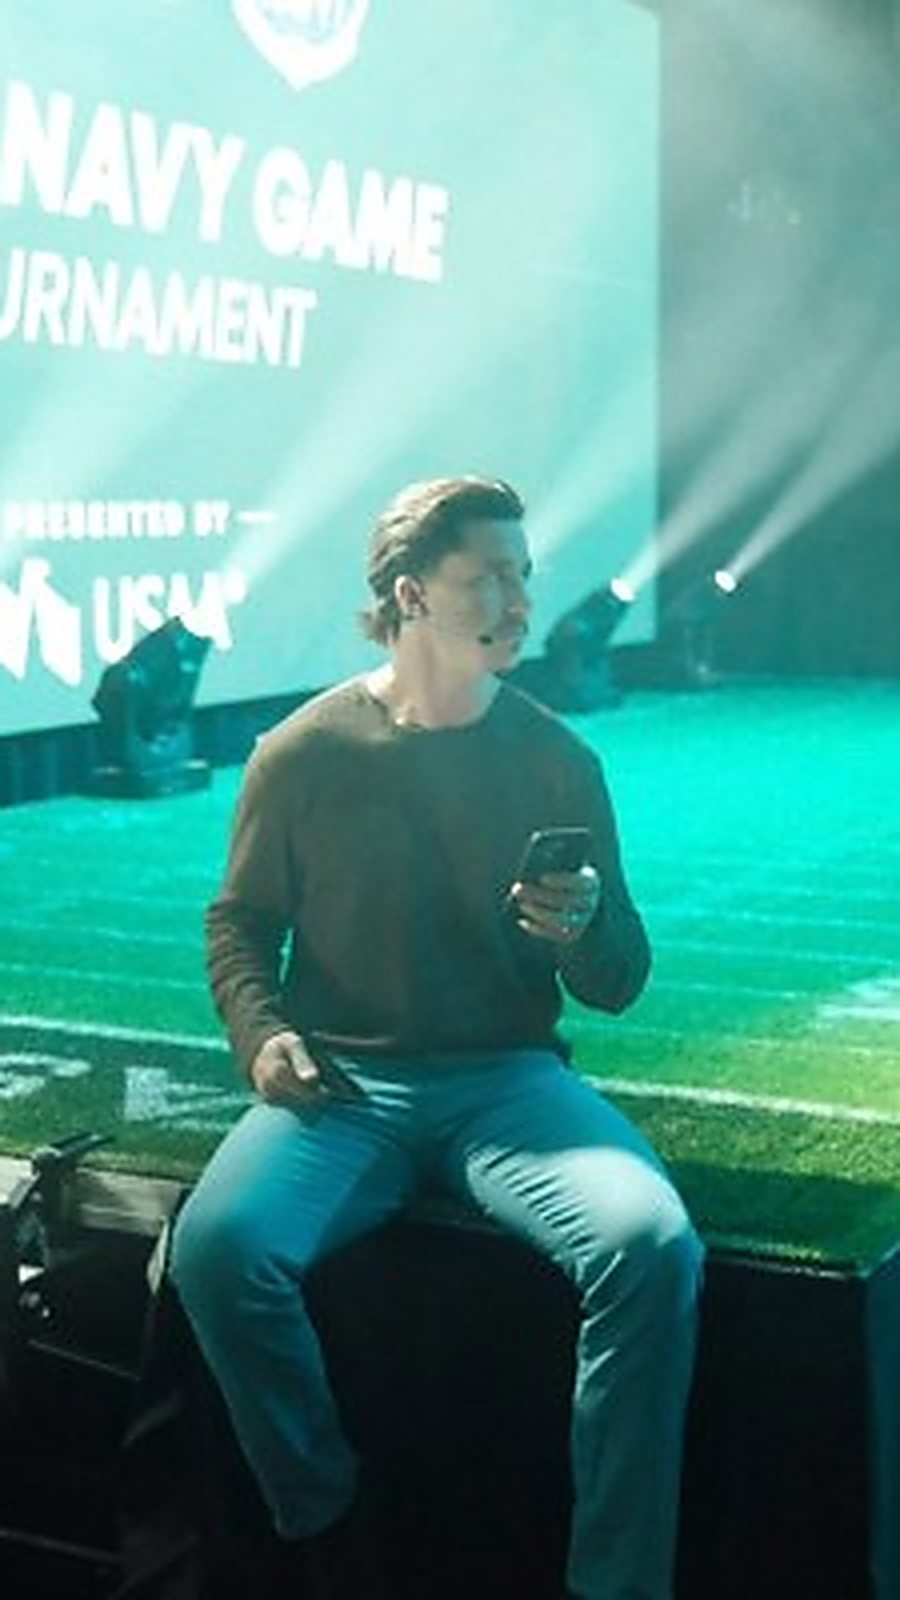
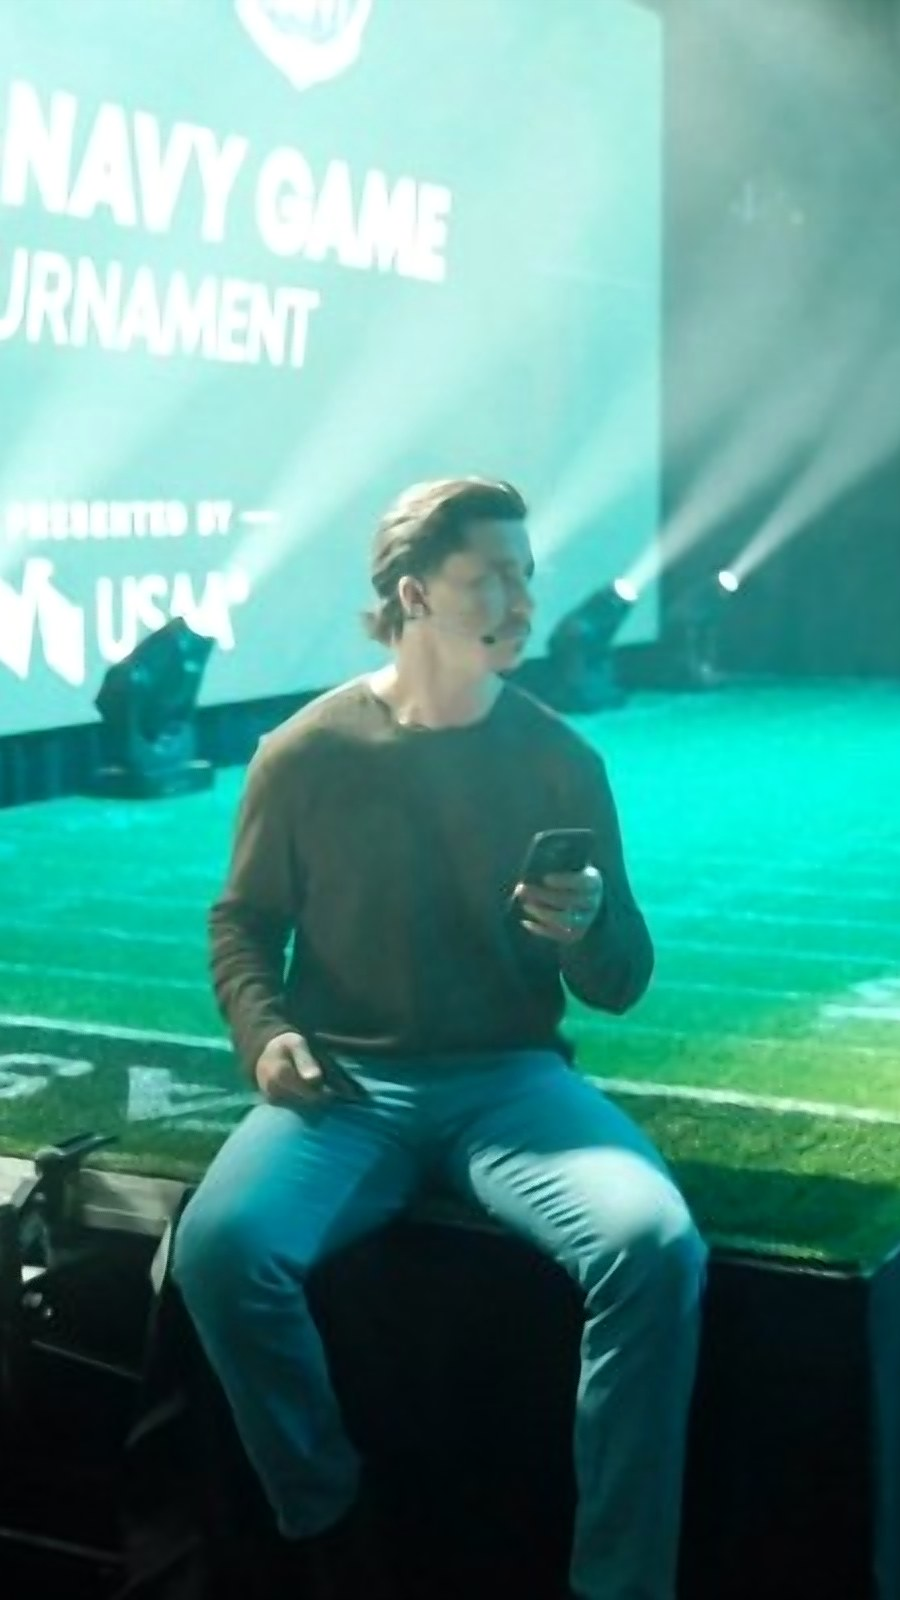
More Nutrition script and style refinements, re-export Army-Navy hero
Adds behavior to js/more.js, small fixes in main.js and
more-nutrition.html, style adjustments in main.css, and a
higher quality export of hero-armynavy-900.jpg.

diff --git a/css/main.css b/css/main.css
@@ -611,10 +611,9 @@ main,footer.foot{position:relative;}
 main{z-index:1;background:var(--ink-0);}
 .foot-mark{position:relative;z-index:0;background:var(--ink-0);overflow:hidden;}
 .foot-mark-space{display:none;}
-@media (min-width:1024px){
-  .foot-mark{position:fixed;left:0;right:0;bottom:0;}
-  .foot-mark-space{display:block;height:var(--markH,340px);}
-}
+/* the pinned-reveal runs on every size now, mobile included */
+.foot-mark{position:fixed;left:0;right:0;bottom:0;}
+.foot-mark-space{display:block;height:var(--markH,340px);}
 /* the X/O doodle sits in the right third at low opacity so it stops running
    through the link columns */
 footer .bgplays{position:absolute;inset:0 0 0 auto;width:38%;opacity:.05;pointer-events:none;clip-path:inset(0);}
@@ -713,6 +712,10 @@ footer .bgplays{position:absolute;inset:0 0 0 auto;width:38%;opacity:.05;pointer
   .foot-grid,.foot--slim .foot-grid{grid-template-columns:1fr 1fr;padding:48px 0 40px;gap:28px;}
   /* the pitch block gets its own full-width row instead of an 8-line column */
   .foot-grid > div:first-child:has(.pitch){grid-column:1 / -1;margin-bottom:8px;}
+  /* mobile: Site keeps the left column, Follow + Work With Kurt stack on the right */
+  .foot-grid > div:nth-child(2){grid-column:1;grid-row:2 / span 2;}
+  .foot-grid > div:nth-child(3){grid-column:2;grid-row:2;}
+  .foot-grid > div:nth-child(4){grid-column:2;grid-row:3;align-self:start;}
   .foot-grid .pitch{max-width:none;font-size:19px;}
   .foot-grid .pitch + .btn-pair{width:auto;}
   footer .bgplays{width:70%;}
@@ -722,8 +725,10 @@ footer .bgplays{position:absolute;inset:0 0 0 auto;width:38%;opacity:.05;pointer
   .btn-pair .btn + .btn{margin-left:0;margin-top:-1px;}
   .btn-pair .btn{text-align:center;}
   .hero .scrim{background:linear-gradient(0deg,rgba(23,22,19,.96) 22%,rgba(23,22,19,.45) 60%,rgba(23,22,19,.25) 100%);}
-  .hero.home .bg{background-image:url('../img/hero-armynavy-900.jpg');background-position:50% 62%;}
-  .hero.home .scrim{background:linear-gradient(0deg,rgba(23,22,19,.92) 14%,rgba(23,22,19,.35) 46%,transparent 62%),linear-gradient(180deg,rgba(23,22,19,.94) 0%,rgba(23,22,19,.66) 34%,transparent 56%);}
+  /* push the photo layer down so the headline clears Kurt's face, fade its top edge into the ink */
+  .hero.home .bg{background-image:url('../img/hero-armynavy-900.jpg');background-position:50% 100%;filter:saturate(1.08) contrast(1.1) brightness(1.06);top:17%;bottom:-6%;-webkit-mask-image:linear-gradient(180deg,transparent 0,#000 13%);mask-image:linear-gradient(180deg,transparent 0,#000 13%);}
+  .hero.home .grain{opacity:.18;}
+  .hero.home .scrim{background:linear-gradient(0deg,rgba(23,22,19,.88) 10%,rgba(23,22,19,.2) 40%,transparent 54%),linear-gradient(180deg,rgba(23,22,19,.86) 0%,rgba(23,22,19,.4) 26%,transparent 46%);}
   /* mobile: copy sits above Kurt, buttons stay pinned low */
   .hero.home{align-items:stretch;}
   .hero.home .inner{display:flex;flex-direction:column;height:100%;text-align:center;}
@@ -733,7 +738,7 @@ footer .bgplays{position:absolute;inset:0 0 0 auto;width:38%;opacity:.05;pointer
   .hero.home .hero-h .hl-mob{display:block;}
   .hero.home .sub{margin-top:auto;margin-left:auto;margin-right:auto;text-align:center;}
   .hero.home .btn-pair{margin-top:0;}
-  .photo-sect.left .scrim,.photo-sect.right .scrim{background:linear-gradient(0deg,rgba(23,22,19,.96) 32%,rgba(23,22,19,.72) 62%,rgba(23,22,19,.4) 100%),rgba(23,22,19,.24);}
+  .photo-sect.left .scrim,.photo-sect.right .scrim{background:linear-gradient(0deg,rgba(23,22,19,.9) 24%,rgba(23,22,19,.52) 58%,rgba(23,22,19,.22) 100%),rgba(23,22,19,.14);}
   .photo-sect .copy,.photo-sect.right .copy{margin:0;padding:56vh 0 64px;}
   #story-preview .copy{padding-bottom:110px;}
   .playcards-lift{margin-top:-56px;}
@@ -993,8 +998,15 @@ body.mn:not(.menu-open) .navbar:not(.scrolled) .nav-burger .bt{color:rgba(255,25
   .mn-grow__track{height:190vh;}
   .mn-grow__frame{width:calc(78% + 22% * var(--p));height:calc(34svh + 66svh * var(--p));}
   .mn-light .grid2{grid-template-columns:1fr;}
-  .mn-strip{grid-template-columns:1fr;gap:16px;}
-  .mn-strip img{aspect-ratio:3/2;}
+  /* mobile: the three shoot frames become a swipeable rail */
+  .mn-strip{position:relative;display:flex;grid-template-columns:none;gap:12px;overflow-x:auto;overflow-y:hidden;scroll-snap-type:x mandatory;-webkit-overflow-scrolling:touch;scrollbar-width:none;-ms-overflow-style:none;margin-inline:calc(clamp(20px,4vw,56px) * -1);padding:clamp(10px,1.6vw,26px) clamp(20px,4vw,56px) clamp(40px,5vw,84px);}
+  .mn-strip::-webkit-scrollbar{display:none;}
+  .mn-strip figure{flex:0 0 80%;scroll-snap-align:start;}
+  .mn-strip{scroll-padding-left:clamp(20px,4vw,56px);}
+  .mn-strip img{aspect-ratio:4/5;}
+  .mn-strip-hold{position:relative;}
+  .mn-strip-hold::after{content:"";position:absolute;top:0;right:0;bottom:clamp(40px,5vw,84px);width:54px;background:linear-gradient(90deg,rgba(255,246,250,0),rgba(255,246,250,.9) 76%,var(--mn-cream));pointer-events:none;z-index:3;transition:opacity .3s var(--ease);}
+  .mn-strip-hold.rail-end::after{opacity:0;}
   .mn-fl{grid-template-columns:auto 1fr;grid-template-areas:"sw nm" ". no";row-gap:6px;}
   .mn-fl .sw{grid-area:sw;}.mn-fl .nm{grid-area:nm;}.mn-fl .no{grid-area:no;}
 }

diff --git a/more-nutrition.html b/more-nutrition.html
@@ -140,10 +140,10 @@
 
 <!-- ---- three frames from the shoot, sitting loose on the page ---- -->
 <div class="mn-light">
-  <div class="wrap">
+  <div class="wrap mn-strip-hold">
     <div class="mn-strip">
-      <figure><img src="img/more-laces.jpg" width="900" height="960" alt="Two players lacing up basketball shoes over a ball, More packs scattered on the court." loading="lazy" decoding="async"></figure>
       <figure><img src="img/more-court.jpg" width="900" height="939" alt="Kurt Benkert and a training partner on a courtside bench opening More packs." loading="lazy" decoding="async"></figure>
+      <figure><img src="img/more-laces.jpg" width="900" height="960" alt="Two players lacing up basketball shoes over a ball, More packs scattered on the court." loading="lazy" decoding="async"></figure>
       <figure><img src="img/more-bite.jpg" width="900" height="985" alt="Close up of a White Chocolate Strawberry Satisbite held above a More pack." loading="lazy" decoding="async"></figure>
     </div>
   </div>

diff --git a/js/more.js b/js/more.js
@@ -83,3 +83,16 @@
   if (document.fonts && document.fonts.ready) document.fonts.ready.then(measure);
   measure();
 })();
+
+/* shoot-strip rail: drop the right-edge fade once you reach the last frame */
+(function () {
+  var rail = document.querySelector('.mn-strip');
+  var hold = document.querySelector('.mn-strip-hold');
+  if (!rail || !hold) return;
+  function sync() {
+    hold.classList.toggle('rail-end', rail.scrollLeft + rail.clientWidth >= rail.scrollWidth - 8);
+  }
+  rail.addEventListener('scroll', sync, { passive: true });
+  window.addEventListener('resize', sync);
+  sync();
+})();

diff --git a/js/main.js b/js/main.js
@@ -312,7 +312,7 @@
       var ticking = false;
       function markTick() {
         ticking = false;
-        if (window.innerWidth < 1024 || !markH) { wordmark.style.setProperty('--rise', '0%'); return; }
+        if (!markH) { wordmark.style.setProperty('--rise', '0%'); return; }
         var docH = document.documentElement.scrollHeight;
         var exposed = window.scrollY + window.innerHeight - (docH - markH);
         var p = Math.min(Math.max(exposed / markH, 0), 1);
